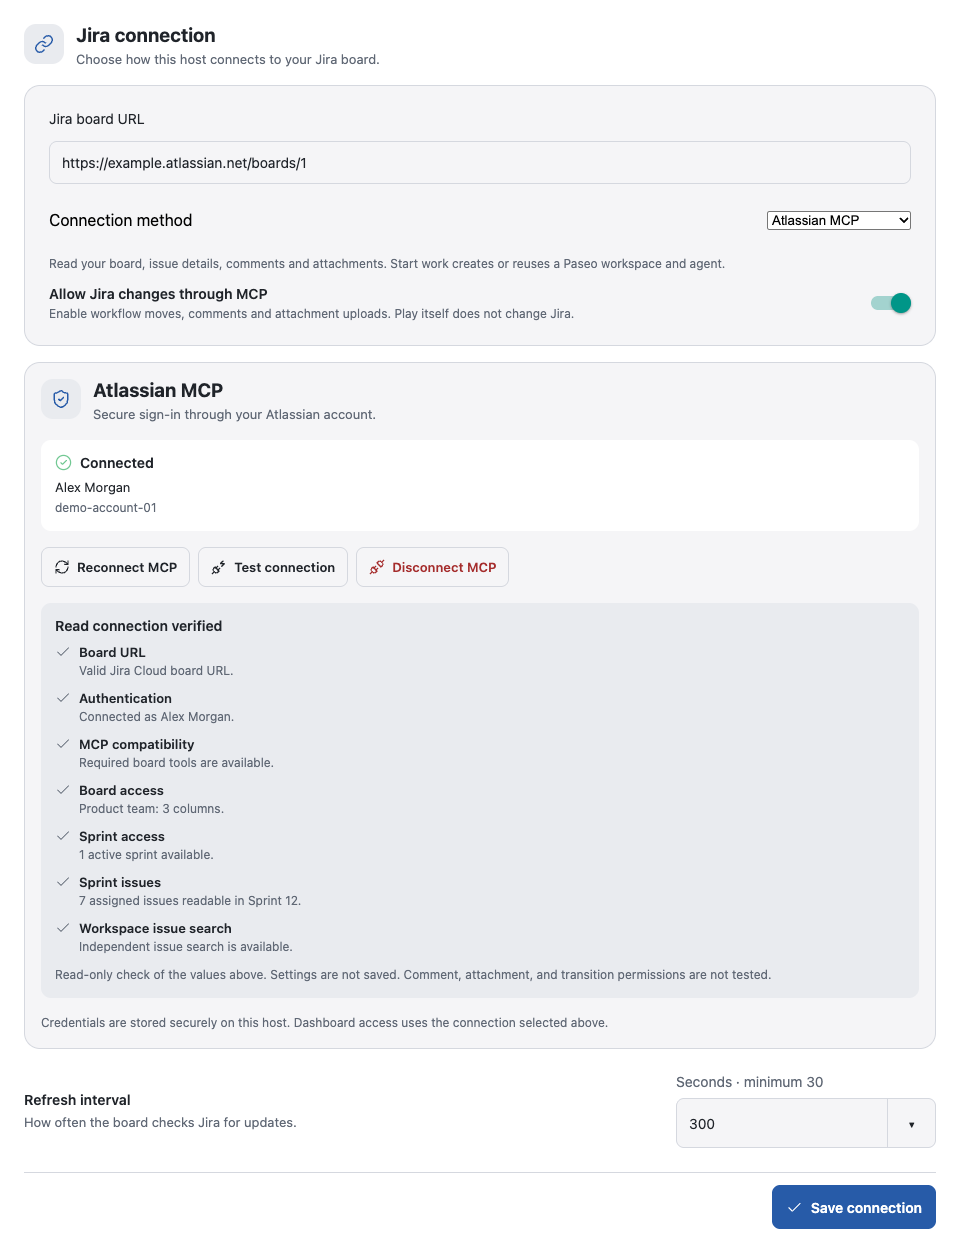
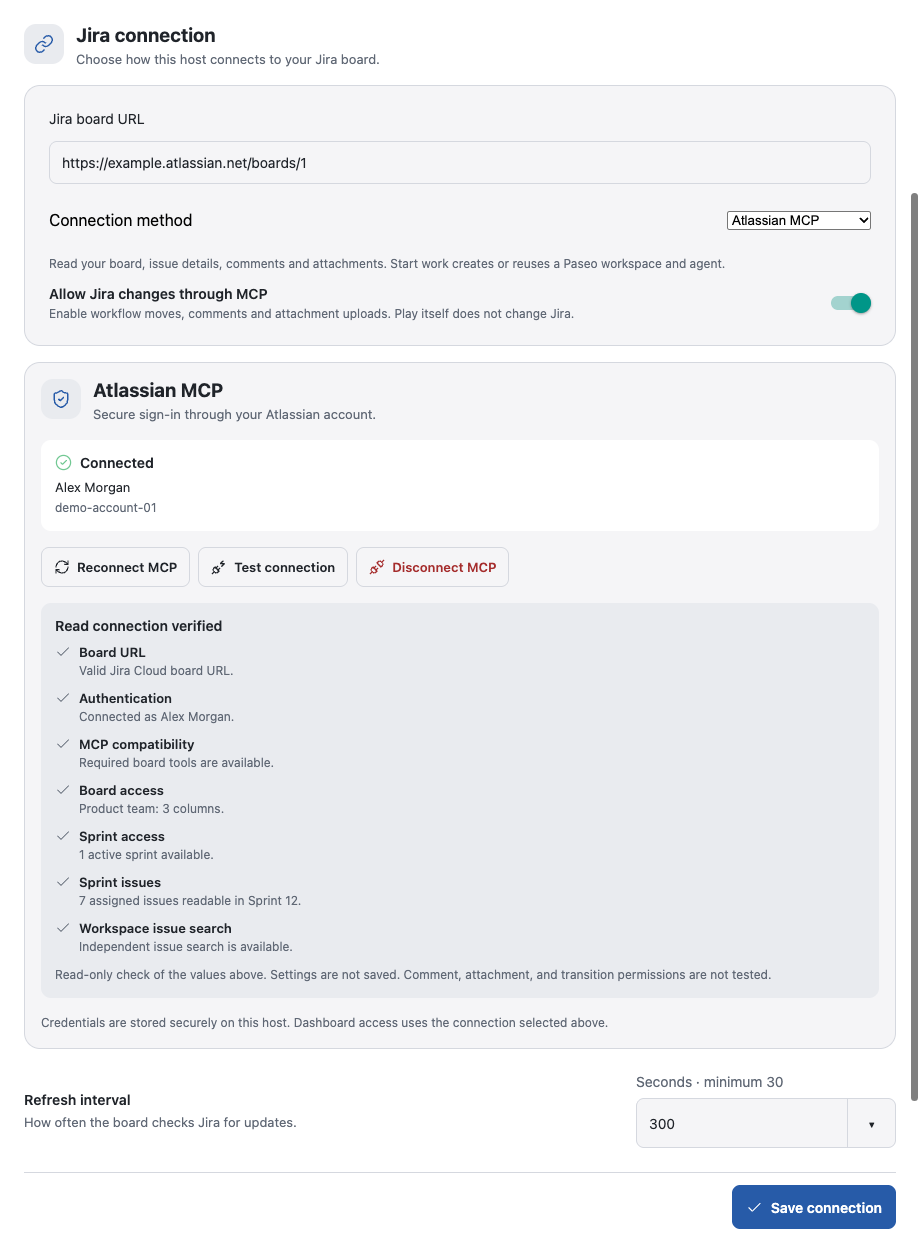
docs: refresh dashboard listing screenshots (#29)

diff --git a/cypress/registry/listing.cy.tsx b/cypress/registry/listing.cy.tsx
@@ -1,4 +1,4 @@
-// Generated by Cypress Author, 2026-11-03. Repeatable synthetic registry media.
+// Generated by Cypress Author, 2026-11-07. Repeatable synthetic registry media.
 import {mount} from 'cypress/react';
 import {Harness} from '../support/harness';
 import {registryMappings,registryRpc} from '../support/registry-data';
@@ -7,9 +7,13 @@ const detail=()=>cy.get('[aria-label^="Open details for DEMO-123:"]');
 describe('Registry previews',()=>{
  beforeEach(()=>registryRpc());
  it('desktop board and details → readable public listing screenshots',()=>{
-  cy.viewport(1100,900);mount(<Harness preview mode="panel" mappingItems={registryMappings}/>);
+  cy.viewport(1200,900);mount(<Harness preview mode="panel" mappingItems={registryMappings}/>);
   detail().should('be.visible');button('Start work DEMO-124').should('be.visible');
-  button('Filters').click();
+  button('Filters').click();button('Filter by Label').click();
+  cy.get('[role="checkbox"][aria-label="Label: experience"]').click();button('Done').click();
+  button('Remove Label: experience').should('be.visible');
+  button('Save as view').click();cy.get('[aria-label="Saved view name"]').type('Onboarding');button('Save view').click();
+  button('Saved views').should('be.visible');
   cy.get('[data-cy-root]').screenshot('registry-dashboard');
   cy.viewport(1500,880);detail().click();cy.contains('What success looks like').should('be.visible');
   cy.get('[data-testid="details-panel"]').should('contain.text','DEMO-123');
@@ -23,7 +27,7 @@ describe('Registry previews',()=>{
    ['Sprint access','1 active sprint available.'],['Sprint issues','7 assigned issues readable in Sprint 12.'],
    ['Workspace issue search','Independent issue search is available.'],
   ].map(([label,message])=>({label,message,state:'passed'}))});
-  cy.viewport(1040,1260);mount(<Harness preview light transport="mcp" mcpWrites mappingItems={registryMappings}/>);button('Settings').click();
+  cy.viewport(920,1400);mount(<Harness preview light transport="mcp" mcpWrites mappingItems={registryMappings}/>);button('Settings').click();
   cy.contains('Jira connection').should('be.visible');
   cy.get('[aria-label="Jira board URL"]').should('have.value','https://example.atlassian.net/boards/1');
   button('Reconnect MCP').should('exist');button('Test connection').click();
@@ -31,7 +35,7 @@ describe('Registry previews',()=>{
   cy.get('[aria-label="Atlassian MCP connection"]').parent().scrollIntoView().screenshot('registry-settings');
  });
  it('mobile details → full-screen readable issue',()=>{
-  cy.viewport(390,820);mount(<Harness preview light mode="panel" mappingItems={registryMappings}/>);
+  cy.viewport(430,900);mount(<Harness preview light mode="panel" mappingItems={registryMappings}/>);
   button('IN PROGRESS · 2').click();detail().click();
   button('Close issue details').should('be.visible');cy.contains('What success looks like').should('be.visible');
   cy.contains('[role="button"]','Attachments (0)').click({scrollBehavior:false});

diff --git a/assets/README.md b/assets/README.md
@@ -10,4 +10,6 @@ Dashboard, details, settings and mobile PNGs show real plugin components with fi
 
 Review new captures visually for clipping and private data before copying them from ignored test-results/ui into assets. Update the exact reviewed SHA-256 digests in scripts/secret-audit.mjs only after that review. Manifest media paths are verified in the distributable package.
 
-Refreshed 2026-11-06 for the 1.0.0 release preparation. The desktop previews show the three-column sprint board and issue side panel in dark mode. The mobile preview shows issue details in light mode. Settings shows a fictional connected Atlassian MCP account, the write opt-in and the complete read-only connection report.
+Refreshed 2026-11-07 after 1.1.0. All four screenshot PNGs were regenerated and reviewed. The desktop board shows an active label filter and saved views; the detail panel shows related issues and section icons. Mobile uses a 430px viewport with related issues and comments visible. Settings shows a fictional MCP account and the complete connection report at 920px width. The harness substitutes a native HTML select for Paseo's host-supplied connection dropdown; it is a component preview, not a pixel-identical host capture.
+
+The ticket-and-play icon PNG and its SVG source are intentionally unchanged. This media-only update does not change the package version or replace assets in the already-published npm release.
